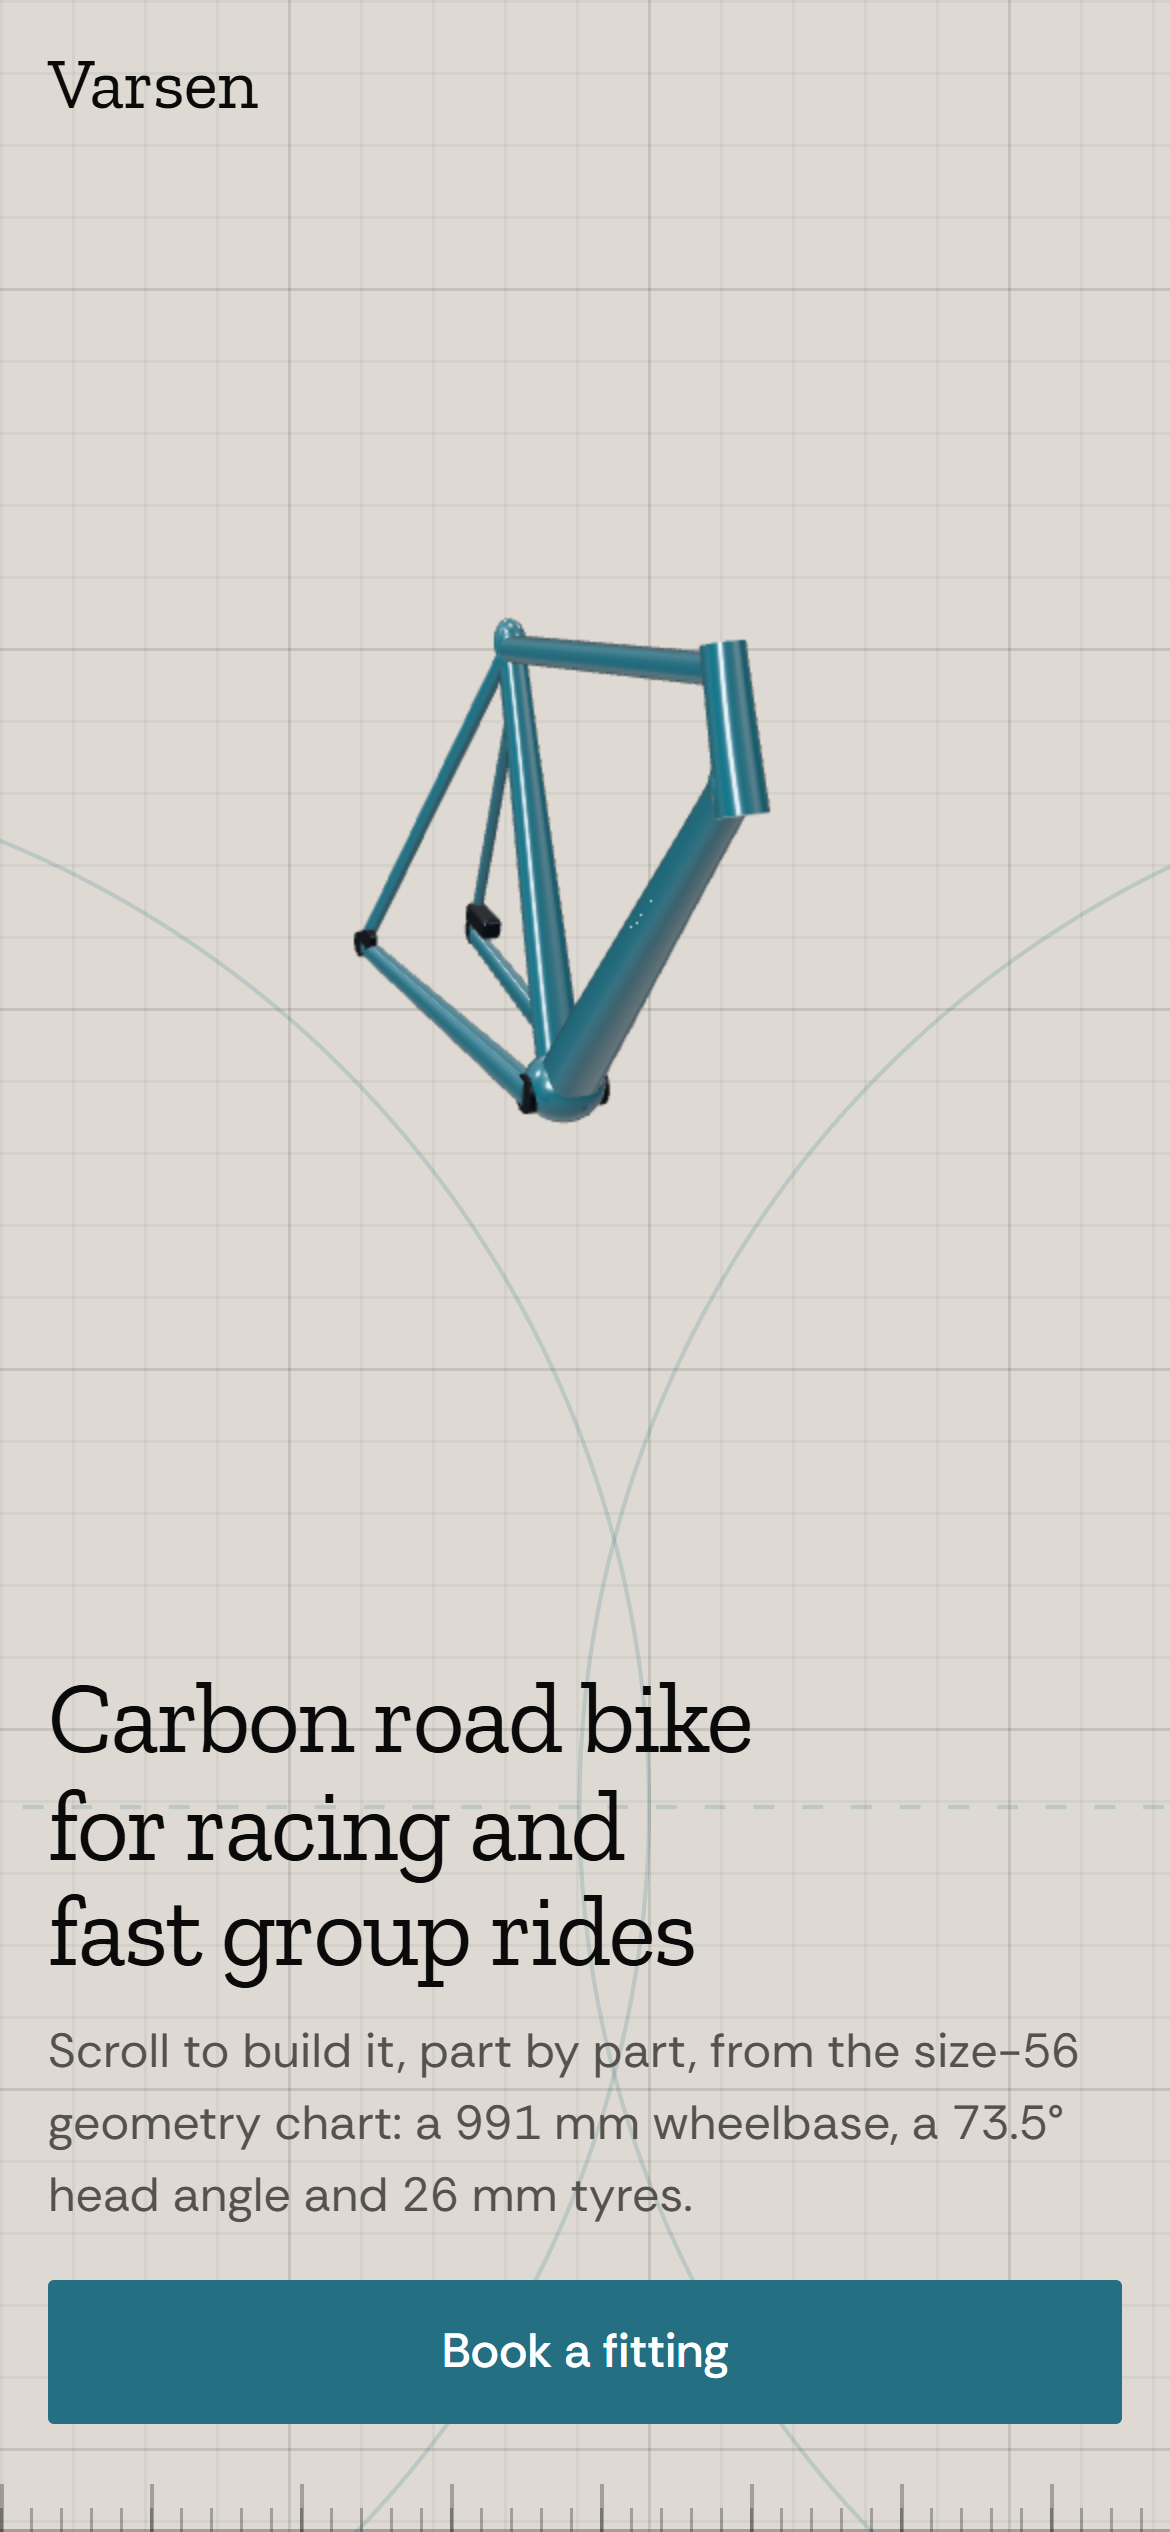
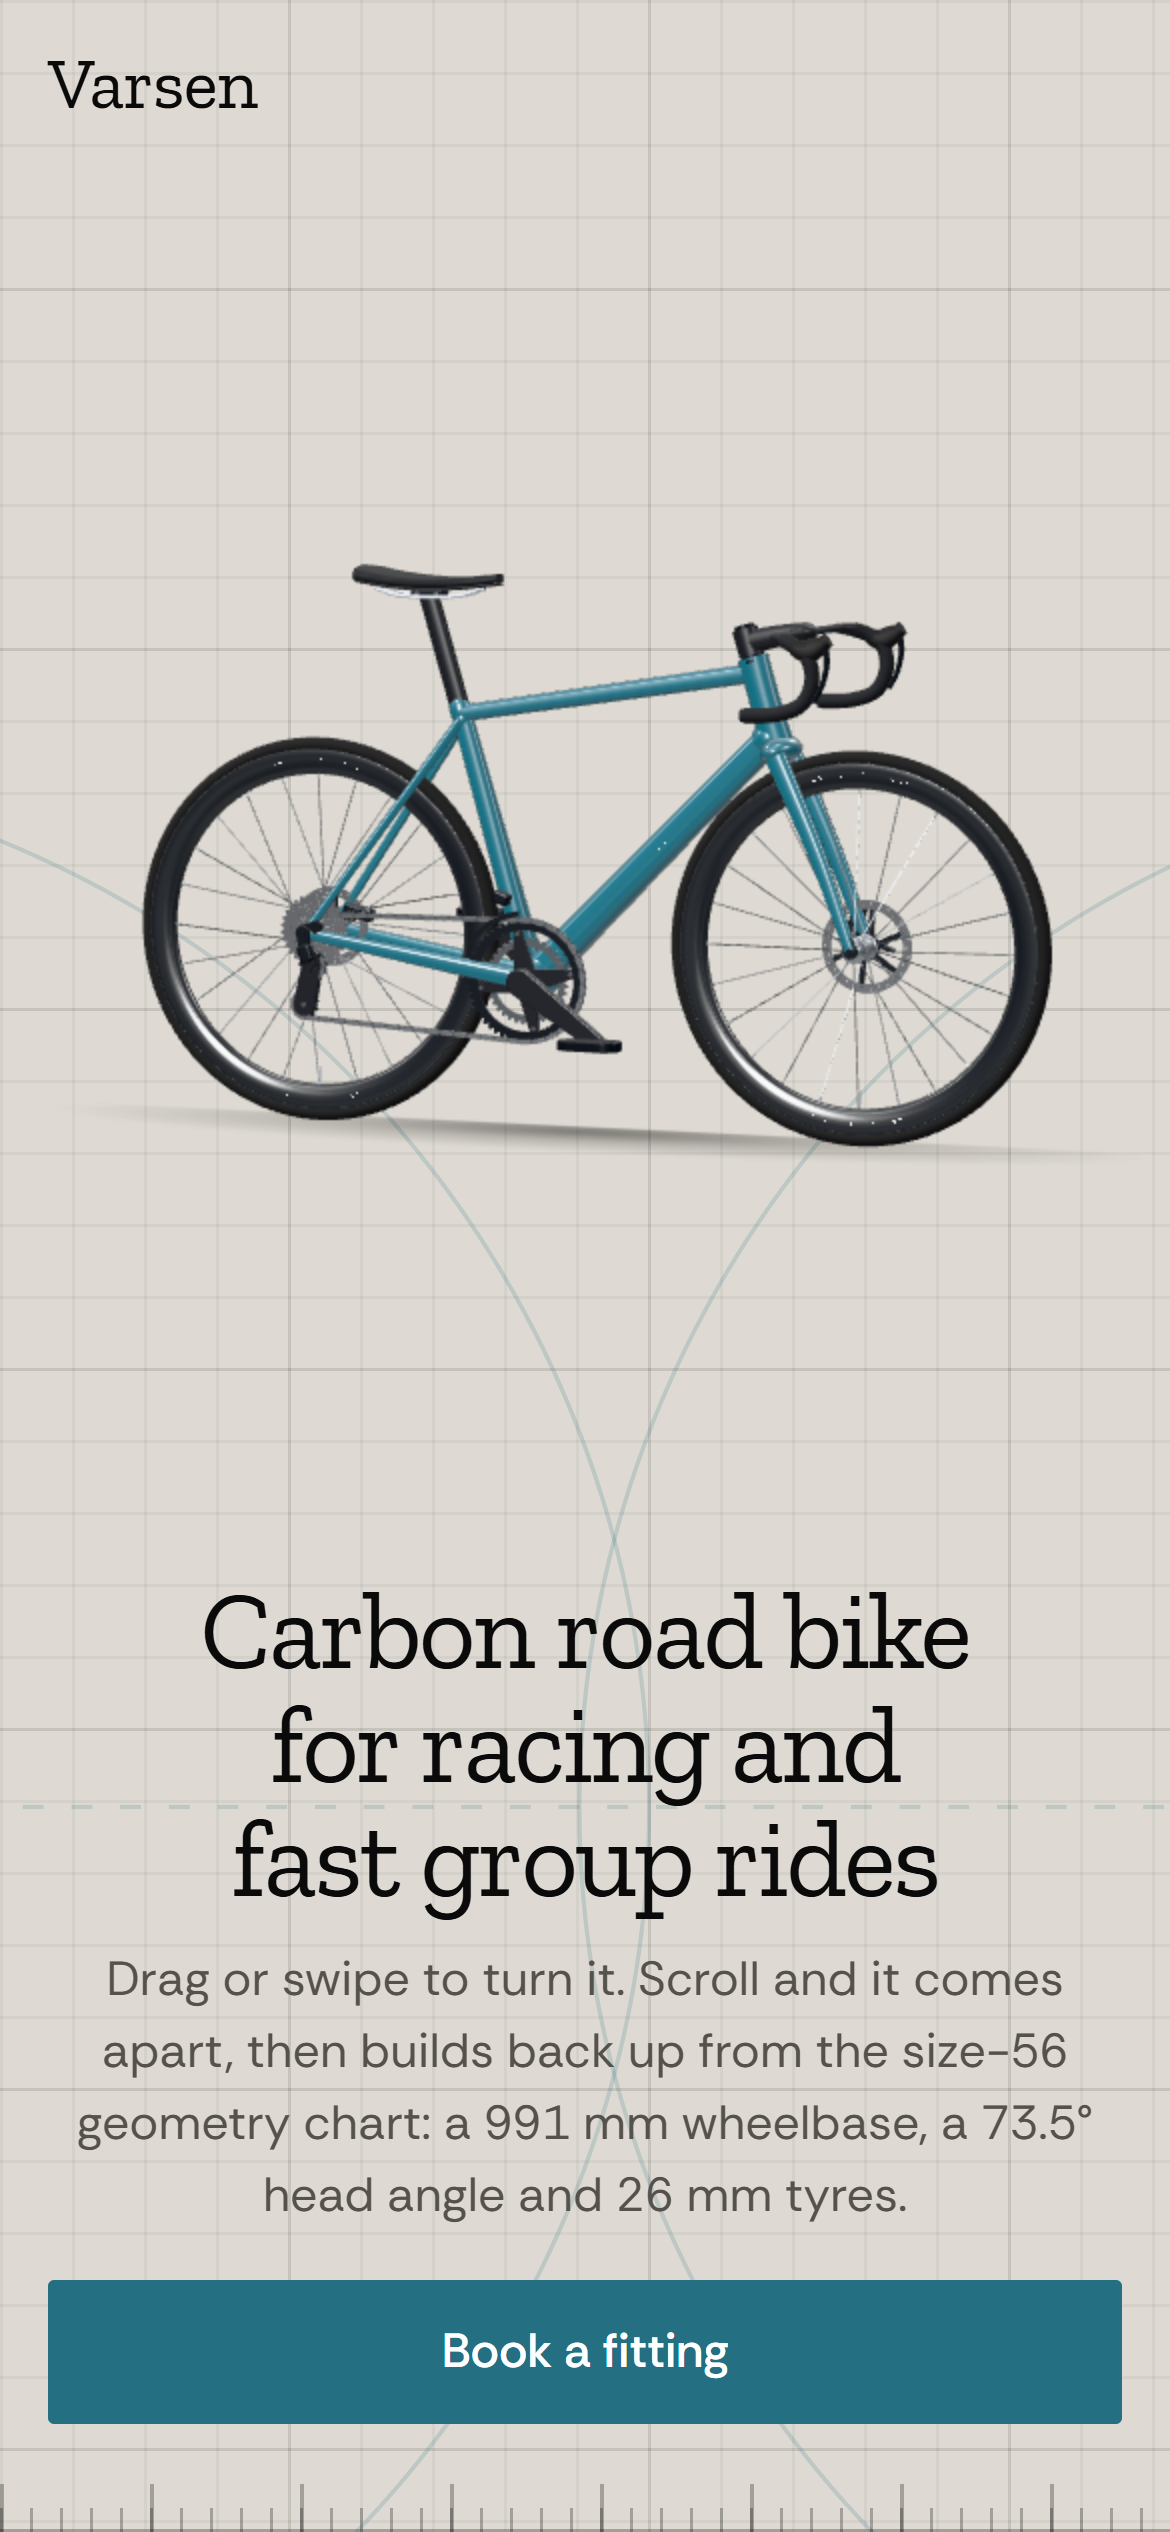
Never show the fallback poster while the 3D bike loads
Why: user report: a large, heavy line drawing flashed on load before the 3D bike.
The no-WebGL poster was visible by default and only hidden once WebGL was ready.
What: poster hidden by default; shown only for no WebGL, a failed geometry check
or a lost GPU context (.gl-lost); lighter strokes; spin hint hidden when there is
no 3D bike; QA.md/DESIGN.md notes.
Proof: new regression test samples the poster every frame from navigation to
ready: 68 visible frames before the fix, 0 after, on WebKit 390x844, WebKit
820x1180 and Chrome 1440x900; quick suites 36/36; Lighthouse mobile 100 (TBT
55 ms, LCP 1.47 s, CLS 0).

Changed region(s): [[0.0308, 0.624, 0.9231, 0.8736], [0.1231, 0.2184, 0.9231, 0.468]]

diff --git a/index.html b/index.html
@@ -66,9 +66,10 @@ a { color: inherit; }
 .mid svg { width: 100%; height: 100%; display: block; }
 #gl { position: absolute; inset: 0; width: 100%; height: 100%; display: block; z-index: 2; opacity: 0; transition: opacity .5s; touch-action: pan-y; }
 .gl-ready #gl { opacity: 1; }
-.poster { position: absolute; z-index: 2; left: var(--rx, 16px); top: var(--ry, 64px); width: var(--rw, 90vw); height: var(--rh, 45svh); }
+.poster { display: none; position: absolute; z-index: 2; left: var(--rx, 16px); top: var(--ry, 64px); width: var(--rw, 90vw); height: var(--rh, 45svh); }
 .poster svg { width: 100%; height: 100%; display: block; }
-.gl-ready .poster { display: none; }
+.no-webgl .poster, .geometry-failed .poster, .gl-lost .poster { display: block; }
+.no-webgl .spin-hint, .geometry-failed .spin-hint { display: none; }                 /* no 3D bike to turn */   /* a fallback only: never a loading state */
 .fg { left: 0; bottom: var(--toolbar); height: var(--ruler); width: calc(150vw + 48px); z-index: 3;
   background: linear-gradient(var(--tick), var(--tick)) bottom / 100% 1px no-repeat,
     repeating-linear-gradient(90deg, var(--tick) 0 1px, transparent 1px 10px) bottom / 100% 8px no-repeat,
@@ -156,7 +157,7 @@ footer p + p { margin-top: 6px; }
       <div class="hero-copy" id="heroCopy">
         <article class="beat on" data-beat="hero">
           <h1>Carbon road bike for racing and fast group rides</h1>
-          <p>Drag or swipe to turn it. Scroll and it comes apart, then builds back up from the size-56 geometry chart: a 991 mm wheelbase, a 73.5° head angle and 26 mm tyres.</p>
+          <p><span class="spin-hint">Drag or swipe to turn it. </span>Scroll and it comes apart, then builds back up from the size-56 geometry chart: a 991 mm wheelbase, a 73.5° head angle and 26 mm tyres.</p>
           <a class="btn" href="https://t.me/varsen_fitting" target="_blank" rel="noopener" data-contact="telegram">Book a fitting</a>
         </article>
       </div>
@@ -795,10 +796,10 @@ function measureBuilt({ root, parts }) {
 function posterSVG(J) {
   const R = CHART.bsd / 2 + CHART.tyreWidth, y = v => -v, L = (a, b) => `<path d="M${J[a][0]} ${y(J[a][1])} L${J[b][0]} ${y(J[b][1])}"/>`;
   const x0 = J.RA[0] - R - 12, x1 = J.FA[0] + R + 12, y0 = y(J.SADDLE[1]) - 24, y1 = y(J.RA[1] - R) + 12;
-  return `<svg viewBox="${x0} ${y0} ${x1 - x0} ${y1 - y0}" preserveAspectRatio="xMidYMid meet" role="img" aria-label="Side drawing of the bike" fill="none" stroke="#0a0a0a" stroke-linecap="round" stroke-width="9">`
-    + `<g stroke-width="22">${['FA', 'RA'].map(k => `<circle cx="${J[k][0]}" cy="${y(J[k][1])}" r="${R - 11}"/>`).join('')}</g>`
-    + `<g stroke="#1d5866" stroke-width="30">${L('HTT', 'HTB')}${L('STT', 'HTT')}${L('DTH', 'BB')}${L('BB', 'STT')}${L('BB', 'RA')}${L('SSJ', 'RA')}${L('CROWN', 'FA')}</g>`
-    + `${L('STEM', 'BAR')}${L('STT', 'POST_TOP')}<path d="M${J.SADDLE[0] - 130} ${y(J.SADDLE[1])} h260" stroke-width="22"/>`
+  return `<svg viewBox="${x0} ${y0} ${x1 - x0} ${y1 - y0}" preserveAspectRatio="xMidYMid meet" role="img" aria-label="Side drawing of the bike" fill="none" stroke="#0a0a0a" stroke-linecap="round" stroke-width="6">`
+    + `<g stroke-width="10">${['FA', 'RA'].map(k => `<circle cx="${J[k][0]}" cy="${y(J[k][1])}" r="${R - 5}"/>`).join('')}</g>`
+    + `<g stroke="#1d5866" stroke-width="14">${L('HTT', 'HTB')}${L('STT', 'HTT')}${L('DTH', 'BB')}${L('BB', 'STT')}${L('BB', 'RA')}${L('SSJ', 'RA')}${L('CROWN', 'FA')}</g>`
+    + `${L('STEM', 'BAR')}${L('STT', 'POST_TOP')}<path d="M${J.SADDLE[0] - 130} ${y(J.SADDLE[1])} h260" stroke-width="10"/>`
     + `<circle cx="0" cy="0" r="105"/></svg>`;
 }
 
@@ -1030,12 +1031,12 @@ async function initGL() {
   }
   window.__bike.steps.uploaded = Math.round(performance.now() - t1);
   for (const f of Object.values(faders)) f(null);  // forget cached alpha so the next apply sets materials (and visibility)
-  canvas.addEventListener('webglcontextlost', e => { e.preventDefault(); lost = true; html.classList.remove('gl-ready'); }, false);
+  canvas.addEventListener('webglcontextlost', e => { e.preventDefault(); lost = true; html.classList.remove('gl-ready'); html.classList.add('gl-lost'); }, false);
   canvas.addEventListener('webglcontextrestored', () => rebuildAfterRestore(), false);
   pApplied = NaN; dirty = true; gl.ready = true;    // only now may frame() touch the scene (init yields above)
   t1 = performance.now(); frame(performance.now());   // first frame now, then reveal
   window.__bike.steps.firstFrame = Math.round(performance.now() - t1); mark('first-frame');
-  html.classList.add('gl-ready');
+  html.classList.add('gl-ready'); html.classList.remove('gl-lost');
   if (!QA && !RM.matches && pShown < STORY.hero.end && spin.yaw === 0) { spin.yaw = -0.45; spin.vel = 0.45 / STORY.hero.inertia; kick(); }
   window.__bike.initMs = Math.round(performance.now() - t0);
 }

diff --git a/QA.md b/QA.md
@@ -37,6 +37,7 @@ are in `qa/results/`; how to re-run them is in section 4.
 | Lighthouse Accessibility and Best Practices | 100 / 100 (all 3 runs) |
 | Model detail budget | 131k triangles, 119 draw calls, 7 textures at p = 1 (was 30.7k / 83 before the detail upgrade). Before/after close-ups: `closeups-before-detail.png`, `closeups-detailed.png` |
 | Hero drag-to-spin (STORYBOARD 2b) | Pass on all 3 viewports: a 120 px drag turns the bike > 0.3 rad about its own axis (wheelbase centre stays on the axis within 1 mm); applied yaw is 0 at p = 0.12; the visitor's angle returns at p = 0 |
+| Loading state | The no-WebGL poster never shows while the 3D bike loads: sampled every frame from navigation to ready, 0 frames visible on all 3 viewports. It appears only for no WebGL, a failed geometry check or a lost GPU context. |
 | Adaptive-quality step at rest | The canvas is redrawn after the resize (regression test, WebKit and Chrome); bike visible after a forced step in Chrome (`live-check.mjs`) |
 | Live site (GitHub Pages) | `qa/live-check.mjs`: HTTP 200, geometry OK, bike visible at p = 0, 0.5 and 1, no errors |
 
@@ -57,6 +58,7 @@ are in `qa/results/`; how to re-run them is in section 4.
 | Detail upgrade: WebKit context test | 5 × "object does not belong to this context" | One shared lug geometry was a module constant and survived the rebuild after a context restore | Created per build: GPU resources are never shared across renderers |
 | Detail upgrade: software GL | — | CPU rasterisers (SwiftShader, llvmpipe) spend ~800 ms on one 4×-MSAA frame of the detailed bike | The renderer's name is read once; on a software rasteriser the page rebuilds the renderer without MSAA at 1×. GPU devices are unaffected. |
 | Hero redesign: Lighthouse | 95 / 96 / 89, TBT 228–430 ms (the pre-hero build scored 96–98 the same day) | The hero shows the whole bike, so all parts upload and draw inside the measured window; slice instrumentation then named the real cost: each rotor's 30 slots triangulated at 40 curve segments, 54–72 ms per wheel at 4× CPU | Rotor outline built from explicit polygons (72-point edges, 10-point slots); geometry uploaded one part per slice while the canvas is still hidden; frame tubes one per slice. Result 100 / 99 / 99. |
+| User report (2026-11-12) | A large, heavy line drawing flashed before the 3D bike | The fallback poster was visible by default and hidden only once WebGL was ready (68 frames visible in the regression test, written first) | Poster hidden by default, shown only under `.no-webgl`, `.geometry-failed` or `.gl-lost`; lighter strokes; the spin hint is hidden when there is no 3D bike. The old hero copy in the report was a browser cache: GitHub Pages serves HTML with `max-age=600`. |
 | Live check on GitHub Pages | Bike blank at p = 1 in WebKit | (1) After an adaptive-quality step, `setSize()` cleared the canvas and no frame was scheduled. (2) Playwright's Windows WebKit cannot present a resized WebGL canvas at all: reproduced with raw WebGL, no three.js (`qa/probe/resize.html`); Chromium presents it. | `setQuality()` now schedules the redraw (regression test). The live check counts bike pixels, so a blank canvas fails. WebKit live checks lock quality; Chrome runs unlocked with a forced step. |
 
 ## 3. Notes on method (read before trusting a number)

diff --git a/DESIGN.md b/DESIGN.md
@@ -146,7 +146,7 @@ Prototype: `qa/comps/parallax.html`. Captured at p = 0, 0.5 and 1 in
 - **Hover and press:** buttons darken on hover, press 1 px down, and the focus ring is a 2 px
   `--accent-ink` outline at 2 px offset.
 - **Reduced motion:** five discrete states with no tweening, and a static backdrop.
-- **No WebGL:** a static poster, an SVG drawing of the bike generated from the same joint table.
+- **No WebGL:** a static poster, an SVG drawing of the bike generated from the same joint table. It is a fallback only, never a loading state: while the 3D bike loads, the stage shows the backdrop and the title, and the bike fades in.
 
 ## 7. Fonts
 
